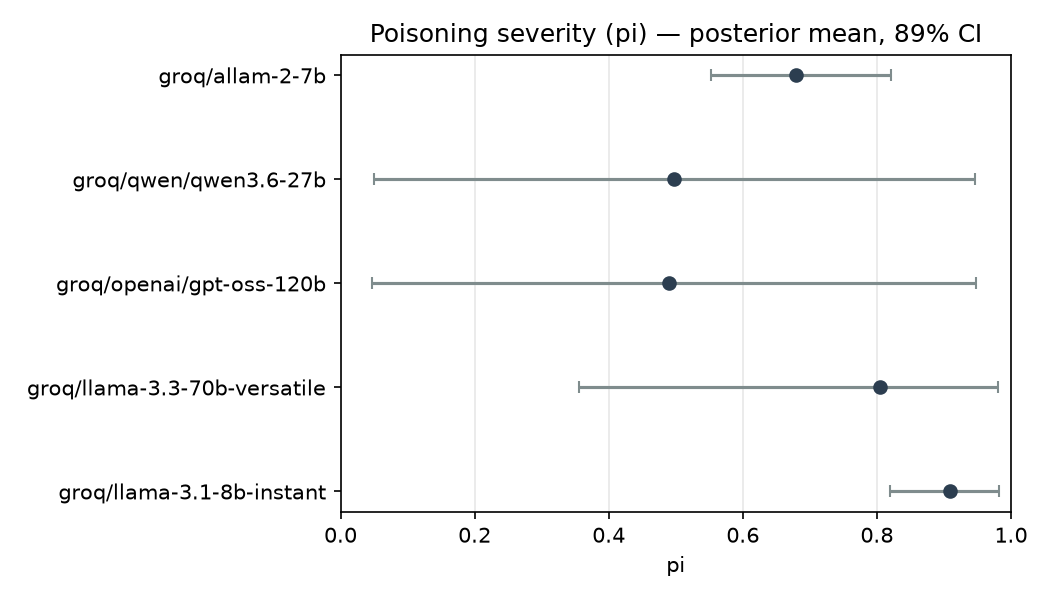
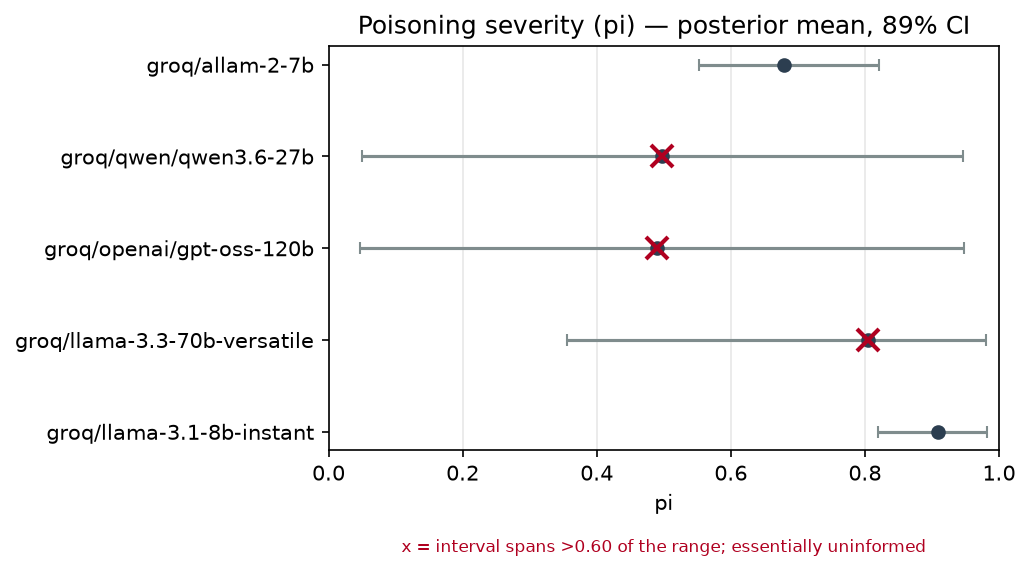
Mark uninformed parameters on the forest plots
A forest plot of an uninformed parameter is visually indistinguishable from one of
a well-constrained posterior: both are a dot with a bar. Two ways that arises in
this run, and figures travel without captions, so both are now marked on the figure
itself. r_syn has NaN prior centres because no syntactic errors exist to inform it,
so the whole panel is labelled PRIOR, NOT POSTERIOR. Per-model intervals spanning
more than 0.60 of the unit range are crossed out as essentially uninformed, which
picks out exactly the three ceiling-level models on the pi panel and leaves the two
informative estimates as plain dots.

Changed region(s): [[0.0, 0.0298, 0.9942, 0.9229], [0.5592, 0.5657, 0.9631, 0.655], [0.4039, 0.9229, 0.901, 0.9825]]

diff --git a/src/tur/analysis/plots.py b/src/tur/analysis/plots.py
@@ -138,16 +138,44 @@ def fig_posterior_forest(idata, meta):
         hi = np.percentile(draws, 94.5, axis=0)
         mean = draws.mean(axis=0)
 
+        # A forest plot of an UNINFORMED parameter is visually indistinguishable
+        # from one of a well-constrained posterior: both are a dot with a bar. Two
+        # ways that happens here, and both must be marked on the figure itself
+        # rather than left to the caption, because figures travel without captions.
+        #   - the prior centre was NaN, so the sampler used its weakly informative
+        #     default: nothing in the data touched this parameter at all
+        #   - the interval spans most of the unit range, so the data barely moved it
+        prior_only = False
+        pu = meta.get("priors_used") or {}
+        key = {"r_syn": "r_syn", "r_sem": "r_sem"}.get(var)
+        if key and key in pu:
+            vals = [v for v in pu[key] if v is not None]
+            prior_only = bool(vals) and all(v != v for v in vals)   # all NaN
+        wide = (hi - lo) > 0.60
+
         fig, ax = plt.subplots(figsize=(7, 4))
         y = np.arange(len(names))
         ax.errorbar(mean, y, xerr=[mean - lo, hi - mean], fmt="o",
                    color="#2c3e50", ecolor="#7f8c8d", capsize=3)
+        for i, w in enumerate(wide):
+            if w:
+                ax.plot(mean[i], i, "x", color="#B00020", markersize=11,
+                        markeredgewidth=2, zorder=5)
         ax.set_yticks(y); ax.set_yticklabels(names)
         ax.set_xlabel(var); ax.set_title(f"{title} — posterior mean, 89% CI")
         ax.set_xlim(0, 1)
         ax.grid(axis="x", alpha=0.3)
+        notes = []
+        if prior_only:
+            notes.append("PRIOR, NOT POSTERIOR: no data informs this parameter")
+        if wide.any():
+            notes.append("x = interval spans >0.60 of the range; "
+                         "essentially uninformed")
+        if notes:
+            ax.text(0.5, -0.22, "\n".join(notes), transform=ax.transAxes,
+                    ha="center", va="top", fontsize=8, color="#B00020")
         fig.tight_layout()
-        fig.savefig(f"{FIG_DIR}/{fname}.png", dpi=150)
+        fig.savefig(f"{FIG_DIR}/{fname}.png", dpi=150, bbox_inches="tight")
         plt.close(fig)
 
 
